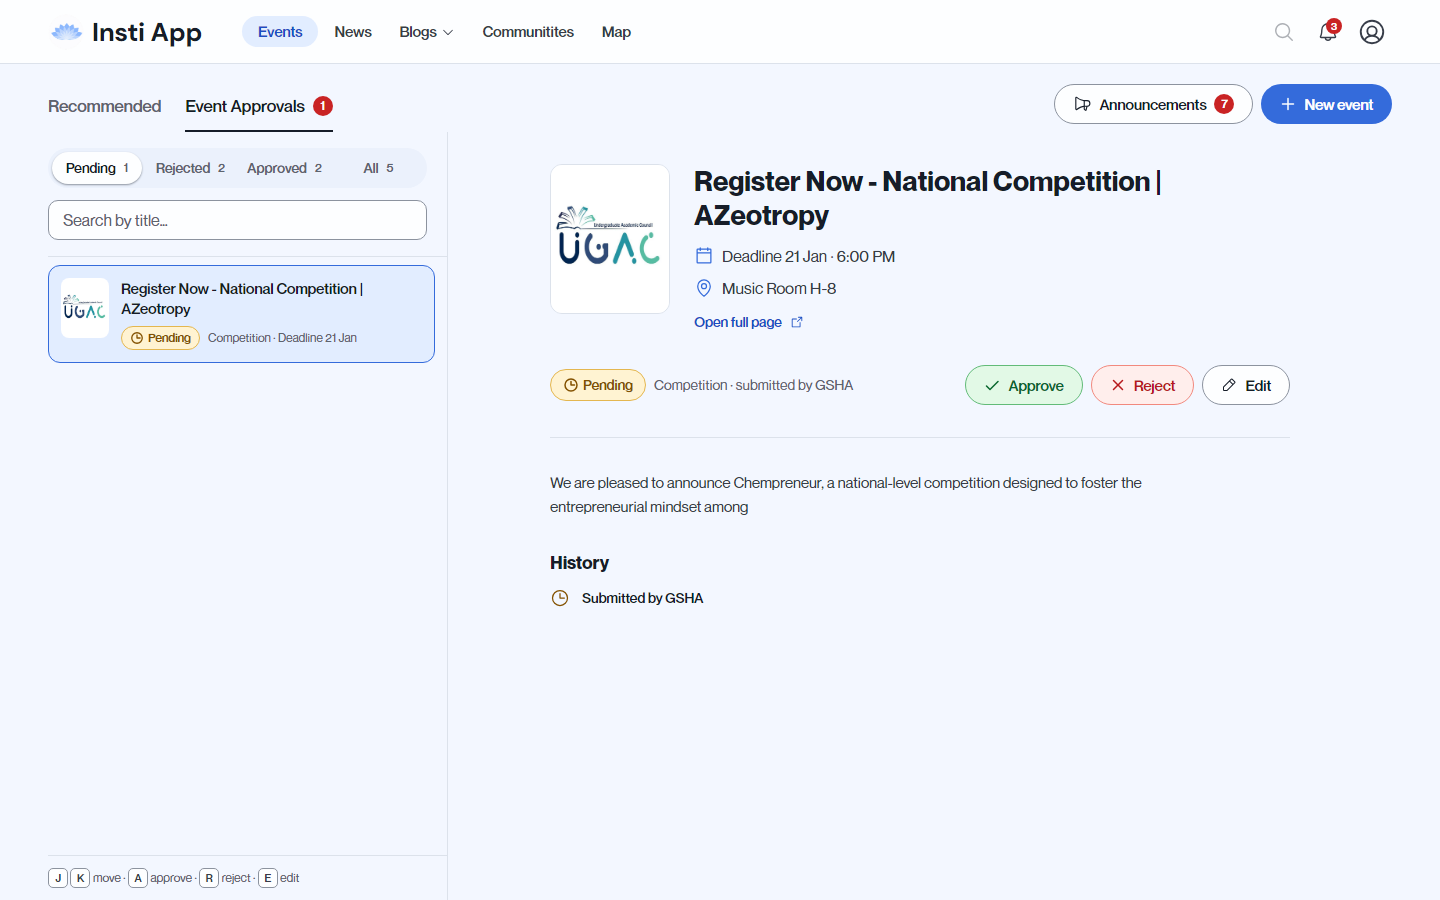
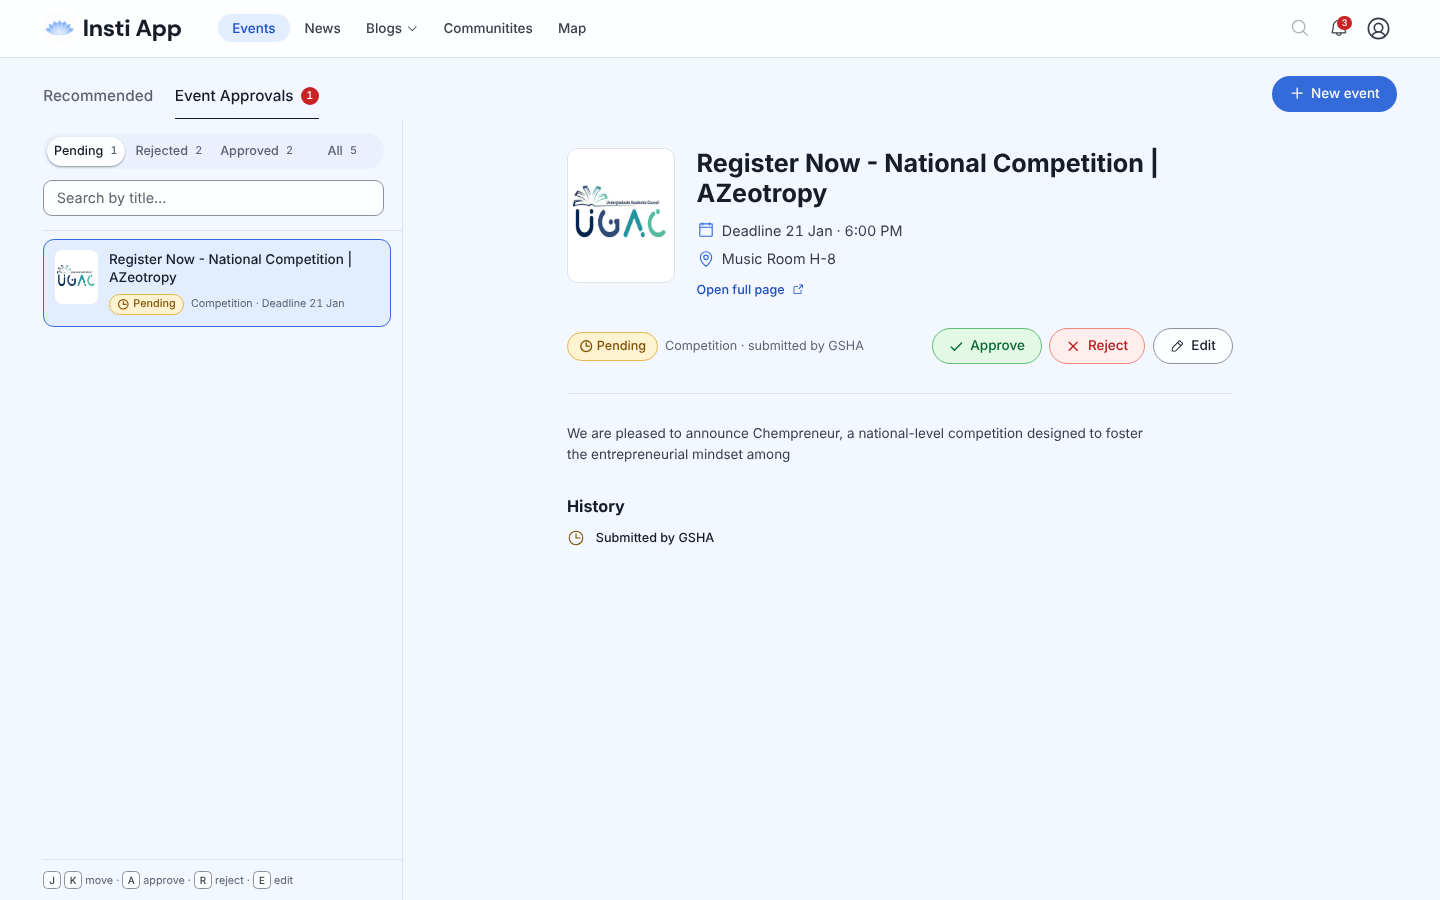
Lock layout: 90% zoom on desktop, one fixed gutter everywhere
- html renders at zoom 0.9 from 1024px up; full-height layouts use
  --vh-full so they still fill the viewport under zoom.
- Gutter is a fixed 16/32/48px per breakpoint instead of 4vw, and the
  1440px max-width is gone, so the side margins are identical on the top
  bar, every page section and the footer at any window width.
- Review screenshots clip to the real scroll size under zoom.

Claude-Session: https://claude.ai/code/session_01UGSq7D7wJQbmhDDKoKNt35

diff --git a/src/styles/tokens.css b/src/styles/tokens.css
@@ -45,7 +45,12 @@
 
   --space-1: 4px; --space-2: 8px; --space-3: 12px; --space-4: 16px; --space-5: 20px;
   --space-6: 24px; --space-8: 32px; --space-10: 40px; --space-12: 48px; --space-16: 64px;
-  --gutter: clamp(16px, 4vw, 48px);
+  /* One fixed side margin per breakpoint, shared by every page, bar and footer. */
+  --gutter: 16px;
+  /* Desktop renders at 90% (like browser zoom 90%); see index.css. */
+  --zoom: 1;
+  /* Full viewport height in zoomed CSS px — zoom shrinks dvh along with everything else. */
+  --vh-full: calc(100dvh / var(--zoom));
 
   --radius-input: 10px; --radius-tile: 12px; --radius-card: 16px; --radius-panel: 20px; --radius-pill: 999px;
 
@@ -59,3 +64,5 @@
 
   --topbar-h: 64px;
 }
+@media (min-width: 640px) { :root { --gutter: 32px; } }
+@media (min-width: 1024px) { :root { --gutter: 48px; --zoom: 0.9; } }

diff --git a/src/pages/AuthPages.tsx b/src/pages/AuthPages.tsx
@@ -10,7 +10,7 @@ import { A } from '../lib/assets'
  */
 function Stage({ children }: { children: ReactNode }) {
   return (
-    <div className="relative grid min-h-dvh place-items-center overflow-hidden bg-paper px-gutter py-12">
+    <div className="relative grid min-h-[var(--vh-full)] place-items-center overflow-hidden bg-paper px-gutter py-12">
       <div className="pointer-events-none absolute bottom-0 left-0 h-[639px] w-[544px] origin-bottom-left scale-[var(--sq)]" aria-hidden>
         <img alt="" src={A.squiggleLeft} className="absolute left-0 top-0 h-[580.309px] w-[730.454px] max-w-none origin-top-left" style={{ transform: 'matrix(-0.969, -0.247, -0.247, 0.969, 544.291, 180.735)' }} />
       </div>

diff --git a/qa/shots.spec.ts b/qa/shots.spec.ts
@@ -34,6 +34,8 @@ for (const s of SHOTS) {
     await page.evaluate(() => document.fonts.ready)
     if (s.setup === 'reject') await page.getByTestId('page-reject').click()
     await page.waitForTimeout(400)
-    await page.screenshot({ path: `qa/shots/${s.name}.png`, fullPage: !!s.full })
+    // CSS zoom (90% on desktop) inflates Playwright's full-page size; clip to the real scroll extent.
+    const size = await page.evaluate(() => ({ width: document.documentElement.scrollWidth, height: document.documentElement.scrollHeight }))
+    await page.screenshot({ path: `qa/shots/${s.name}.png`, fullPage: !!s.full, clip: s.full ? { x: 0, y: 0, ...size } : undefined })
   })
 }

diff --git a/src/components/TopBar.tsx b/src/components/TopBar.tsx
@@ -9,7 +9,7 @@ import { LotusMark } from './Brand'
 export function TopBar() {
   return (
     <header className="sticky top-0 z-30 h-topbar border-b border-rule bg-surface">
-      <div className="mx-auto flex h-full max-w-page items-center gap-6 px-gutter">
+      <div className="flex h-full items-center gap-6 px-gutter">
         <Link to="/home" className="flex shrink-0 items-center gap-2 rounded-pill" aria-label="Insti App home">
           <LotusMark size={36} />
           <span className="whitespace-nowrap font-wordmark text-[26px] font-extrabold leading-none tracking-[-0.01em] text-ink">Insti App</span>

diff --git a/src/pages/HomePage.tsx b/src/pages/HomePage.tsx
@@ -58,9 +58,9 @@ export function HomePage() {
     <>
       <TopBar />
       {reviewing ? (
-        <main className="flex h-[calc(100dvh-var(--topbar-h))] flex-col">
+        <main className="flex h-[calc(var(--vh-full)-var(--topbar-h))] flex-col">
           {header}
-          <div className="mx-auto flex min-h-0 w-full max-w-page flex-1 flex-col lg:px-gutter">
+          <div className="flex min-h-0 w-full flex-1 flex-col lg:px-gutter">
             <ReviewWorkspace role={tab === 'status' ? 'gsha' : 'gsec'} />
           </div>
         </main>

diff --git a/src/components/ui.tsx b/src/components/ui.tsx
@@ -82,7 +82,7 @@ const initials = (name: string) =>
   name.replace(/\(.*?\)/g, '').split(/\s+/).filter(Boolean).slice(0, 2).map((w) => w[0]).join('').toUpperCase()
 
 export function Page({ children, className = '' }: { children: ReactNode; className?: string }) {
-  return <div className={`mx-auto w-full max-w-page px-gutter ${className}`}>{children}</div>
+  return <div className={`w-full px-gutter ${className}`}>{children}</div>
 }
 
 /** Renders "**x**" as Medium; keeps blank lines. */

diff --git a/tailwind.config.js b/tailwind.config.js
@@ -78,9 +78,6 @@ export default {
         'sheet-out': '180ms',
         slide: '480ms',
       },
-      maxWidth: {
-        page: '1440px',
-      },
     },
   },
   plugins: [],

diff --git a/src/index.css b/src/index.css
@@ -11,6 +11,7 @@
 
 @layer base {
   html, body { overflow-x: clip; }
+  html { zoom: var(--zoom); }
   body {
     background: var(--color-paper);
     color: var(--color-ink-2);

diff --git a/design.md b/design.md
@@ -63,7 +63,7 @@ one `--color-rule` border; a soft shadow only on hover for clickable cards.
 
 ## Spacing
 4-point named scale (`--space-1` 4px … `--space-16` 64px) in `src/styles/tokens.css`.
-Page gutter: `clamp(16px, 4vw, 48px)`; content max-width 1440px.
+Page gutter: fixed 16px (phone) · 32px (≥640) · 48px (≥1024), the same on every page, bar and footer; content runs full width between them. Desktop (≥1024) renders at 90% via `zoom` on `html` — use `var(--vh-full)`, not `100dvh`, for full-height layouts.
 
 ## Radii
 card 16 · panel 20 · input 10 · tile 12 · pill 999. Buttons are pills (tone kept).
